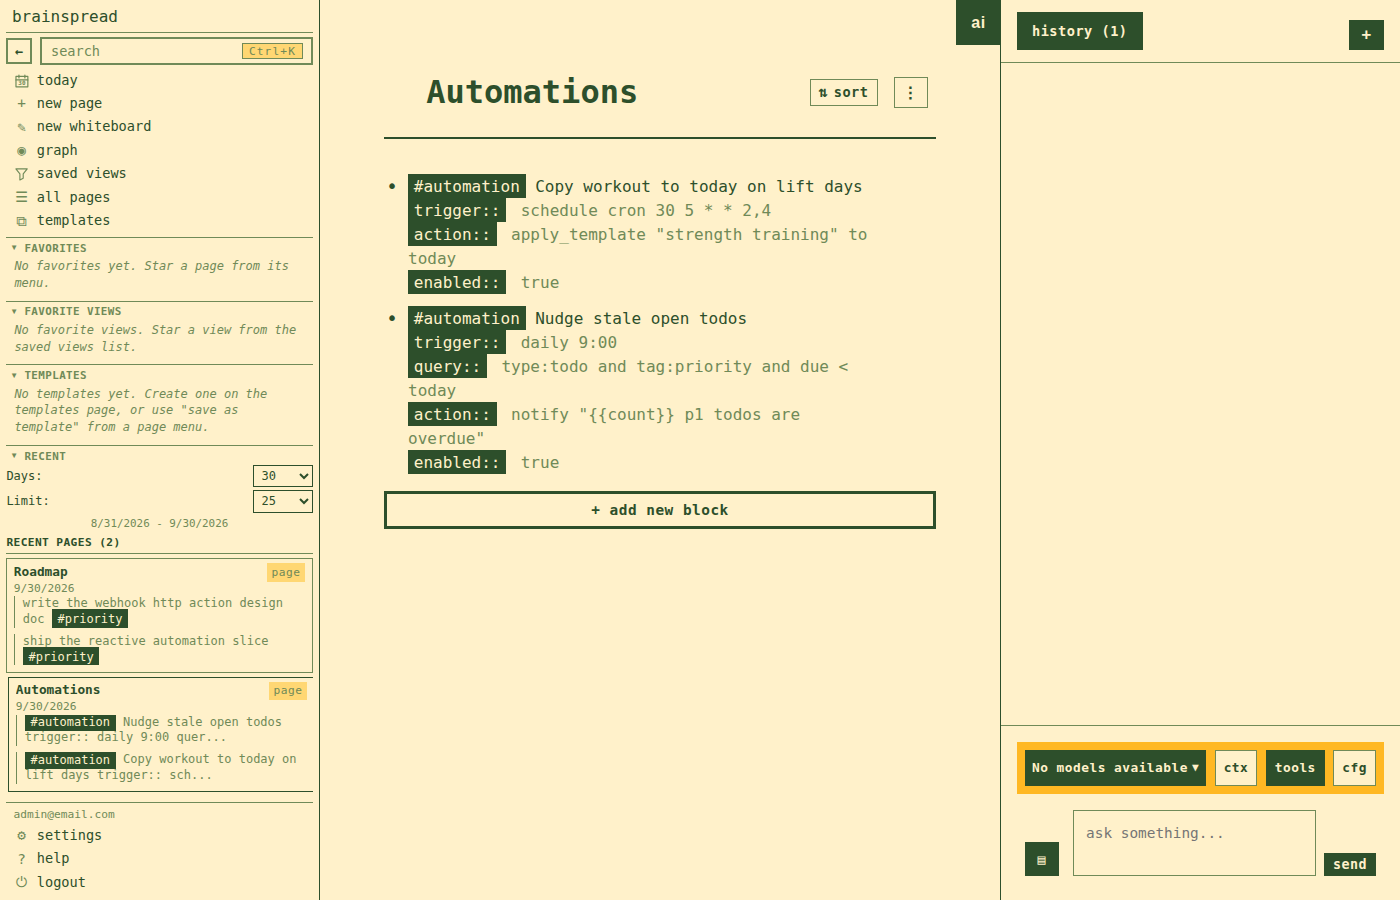
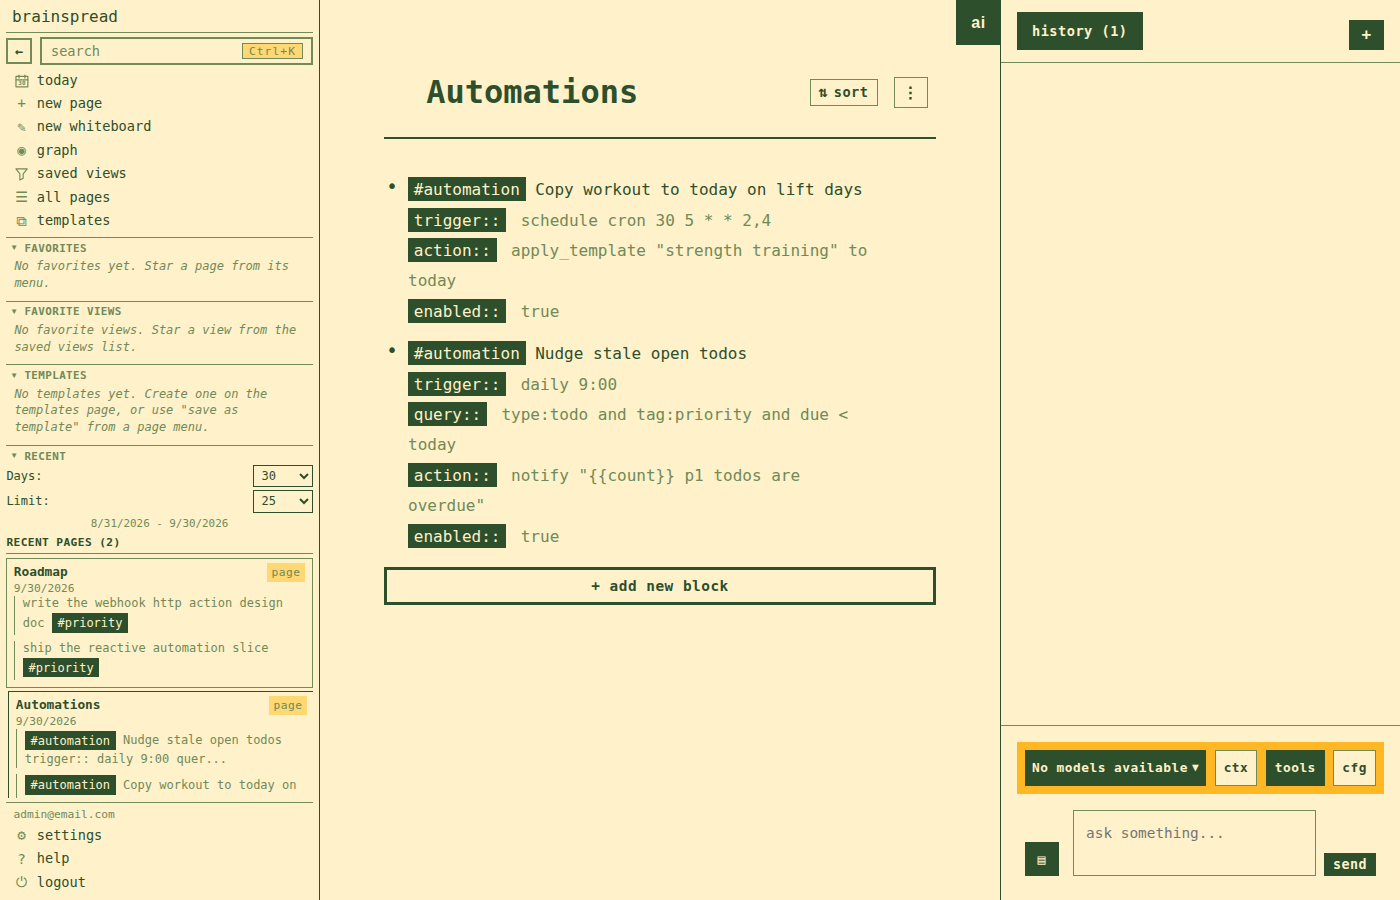
Add breathing room to stacked tag/property highlight chips
Vertical padding on an inline element doesn't grow its line box, so on
multiline content where a highlighted chip sits at the start of every
line (a multi-property automation definition: trigger::/query::/
action::), adjacent chips' backgrounds visually touched with no gap,
reading as one connected block instead of separate lines. Giving
.inline-tag and .inline-property-value their own taller line-height
grows just the line box they're on, without affecting ordinary prose
lines that don't contain a chip.

Re-captured the three README screenshots against the fix.

Claude-Session: https://claude.ai/code/session_018yMA39rVbEJzFYZvH8mQCZ

Changed region(s): [[0.2764, 0.1867, 0.6757, 0.6844], [0.0, 0.6533, 0.2457, 0.9022]]

diff --git a/packages/django-app/app/knowledge/static/knowledge/css/app.css b/packages/django-app/app/knowledge/static/knowledge/css/app.css
@@ -1549,6 +1549,13 @@ kbd {
   font-weight: normal;
   border: 1px solid var(--tag-bg);
   text-decoration: none;
+  /* Vertical padding/border on an inline element doesn't grow the line
+     box — on multiline content where a chip sits at the start of every
+     line (a multi-property automation definition: trigger::/query::/
+     action::), adjacent chips' backgrounds visually touch with no gap.
+     A taller line-height on the chip itself grows just its own line's
+     box, adding breathing room without touching normal prose lines. */
+  line-height: 1.9;
 }
 
 /* More specific selector for inline tags in block content */
@@ -1594,6 +1601,8 @@ kbd {
   background-color: var(--hover-bg-light);
   color: var(--text-secondary);
   padding: 0.1rem 0.3rem;
+  /* See .inline-tag's line-height comment — same fix, same reason. */
+  line-height: 1.9;
 }
 
 /* Tag page styling */
